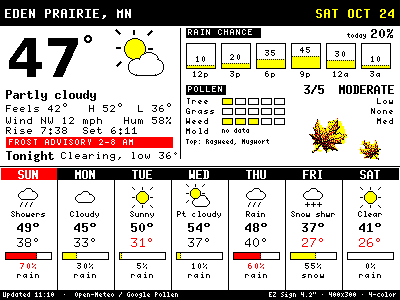
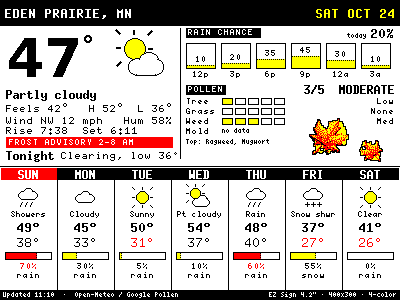
Leaf sprites: red/yellow interior, black only as a 1-px outline and darkest veins
Claude-Session: https://claude.ai/code/session_014UobJA4ToZBu9RZ3YycZTm

Changed region(s): [[0.78, 0.39, 0.87, 0.54], [0.9, 0.45, 0.96, 0.54]]

diff --git a/tools/make_leaf_sprite.py b/tools/make_leaf_sprite.py
@@ -14,6 +14,9 @@ import numpy as np
 from PIL import Image, ImageFilter
 
 K, R, Y = (0, 0, 0), (255, 0, 0), (255, 255, 0)
+BLACK_PENALTY = 0.6     # error-diffusion bias against black inside the leaf
+DARK_V = 45             # only source pixels darker than this (0-255 V) may become black
+OUTLINE = True          # 1-px black ring around the silhouette
 
 
 def main(src, out, size, flip=False):
@@ -64,6 +67,9 @@ def main(src, out, size, flip=False):
             if 0 <= ny < Hh and 0 <= nx < Ww and not seen[ny, nx] and not outside[ny, nx]:
                 outside[ny, nx] = True; q.append((ny, nx))
     mask = seen | ~outside
+    # pad 1 px so the outline ring has room
+    mask = np.pad(mask, 1); rgb = np.pad(rgb, ((1, 1), (1, 1), (0, 0)), constant_values=1.0)
+    v = np.pad(v, 1, constant_values=255); Hh, Ww = mask.shape
     # error diffusion onto {K, R, Y} inside the mask; "redness" from hue/value
     pal = np.array([K, R, Y], float) / 255
     buf = rgb.copy(); outp = np.zeros((Hh, Ww), int) - 1
@@ -73,8 +79,12 @@ def main(src, out, size, flip=False):
             if not mask[y, x]:
                 continue
             p = np.clip(buf[y, x], -0.3, 1.3)
-            # treat near-white highlights as yellow, don't let them vanish
-            d = ((pal - p) ** 2).sum(1); d[0] += 0.18          # bias against black speckle; keeps black for true outline/veins
+            # interior is red/yellow only; black is reserved for the darkest vein
+            # pixels (and the outline ring added below), so the leaf reads warm
+            d = ((pal - p) ** 2).sum(1)
+            d[0] += BLACK_PENALTY
+            if v[y, x] > DARK_V:
+                d[0] = 9.0
             i = int(np.argmin(d)); outp[y, x] = i
             err = p - pal[i]
             for ddy, ddx, w in ((0, sd, 7 / 16), (1, -sd, 3 / 16), (1, 0, 5 / 16), (1, sd, 1 / 16)):
@@ -86,6 +96,14 @@ def main(src, out, size, flip=False):
         for x in range(Ww):
             if outp[y, x] >= 0:
                 px[x, y] = (K, R, Y)[outp[y, x]] + (255,)
+    if OUTLINE:
+        m = Image.fromarray((mask * 255).astype(np.uint8))
+        ring = np.array(m.filter(ImageFilter.MaxFilter(3))) > 0
+        ring &= ~mask
+        for y in range(Hh):
+            for x in range(Ww):
+                if ring[y, x]:
+                    px[x, y] = K + (255,)
     spr.save(out); print("wrote", out, spr.size, "leaf px:", int(mask.sum()))
 
 
